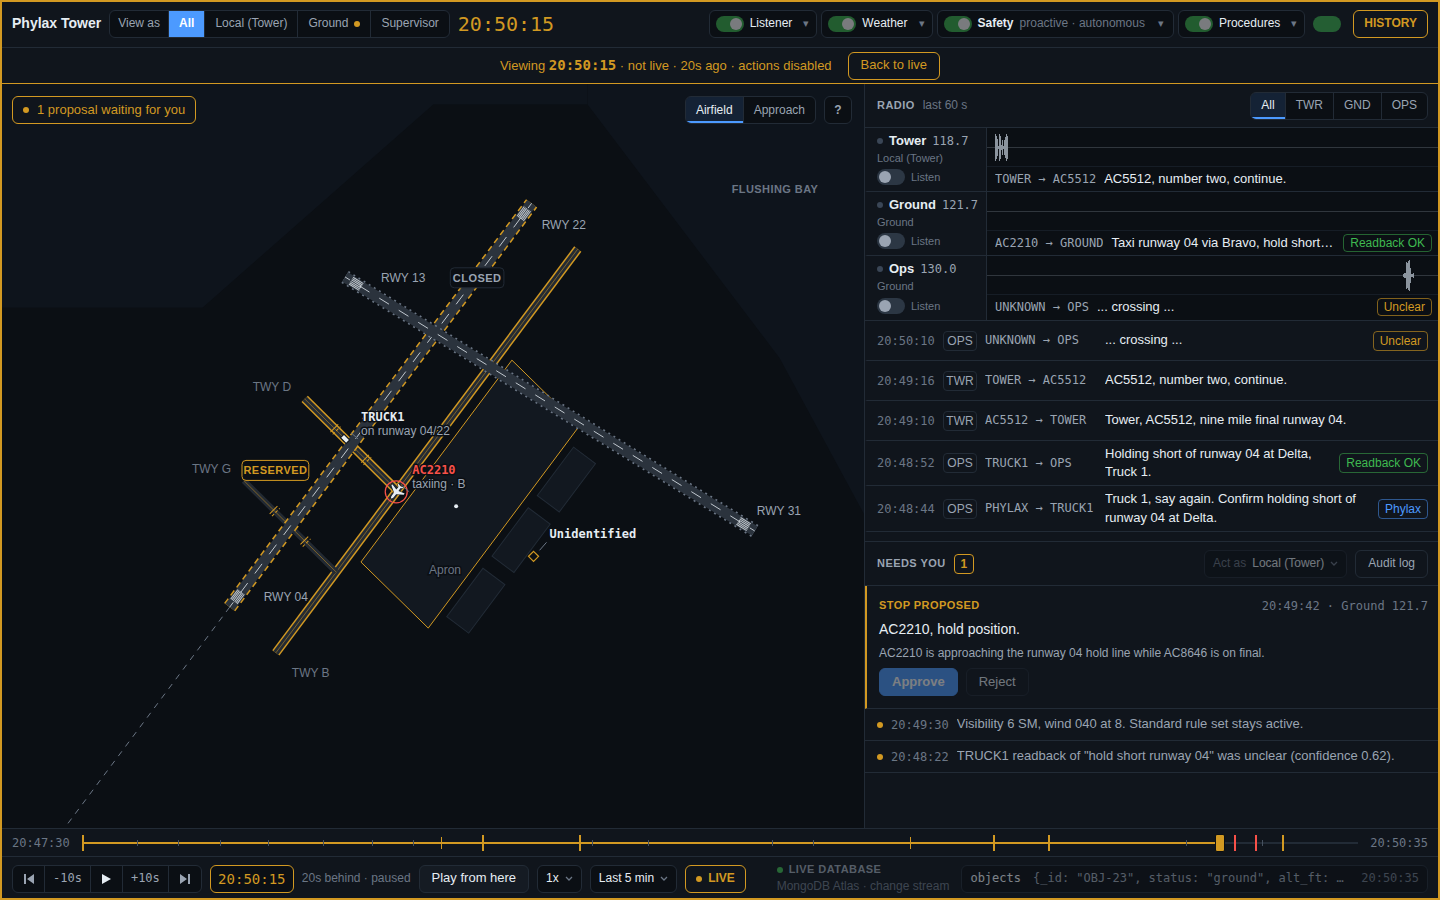
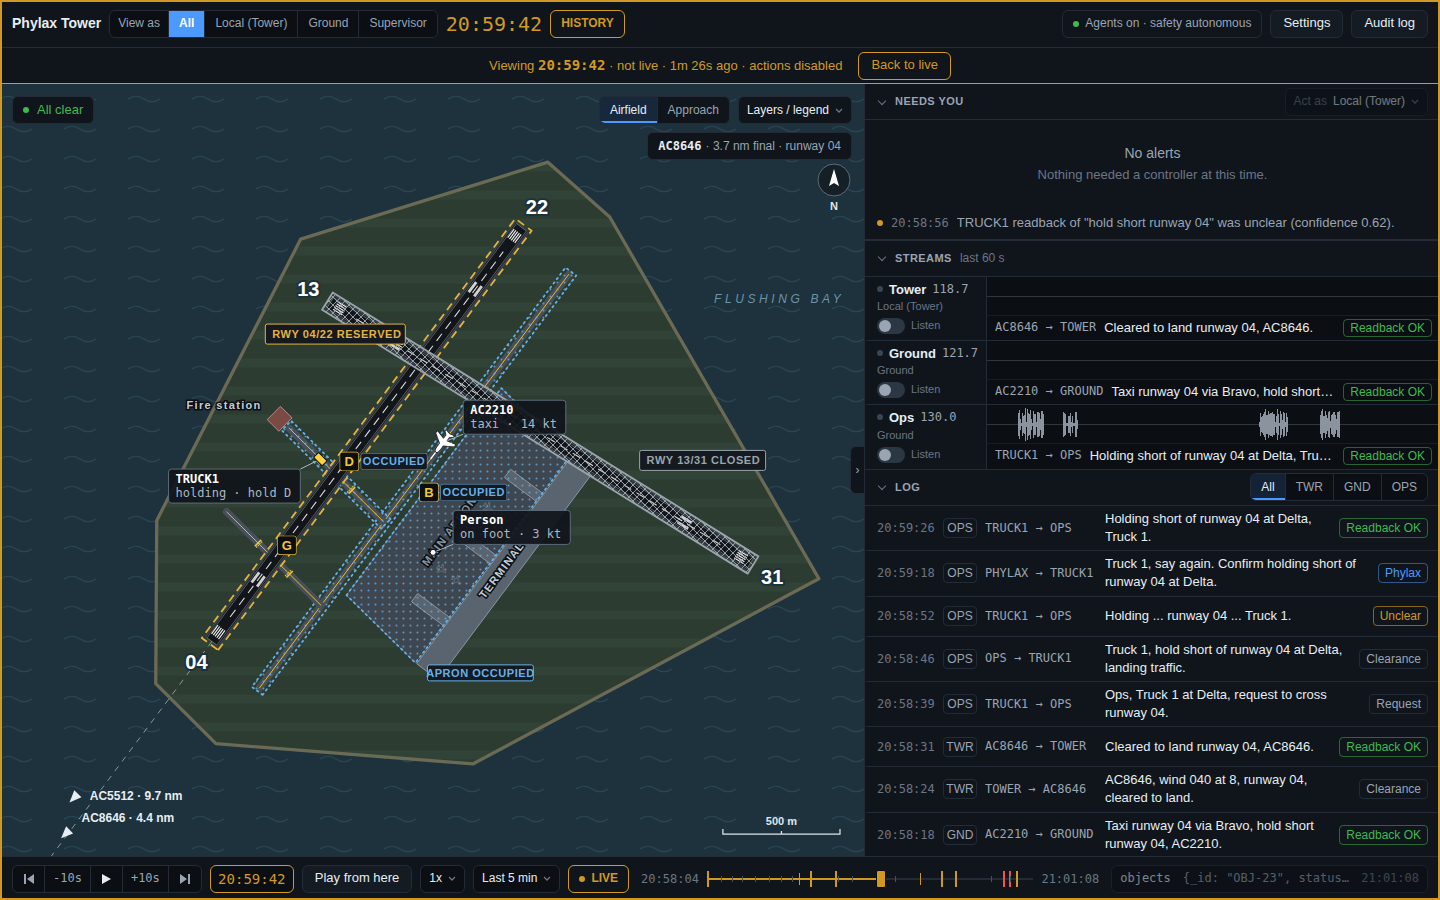
Visualizer map: keep edge markers and the fire station label clear, updated screenshots

diff --git a/visualizer/web/src/components/MapView.tsx b/visualizer/web/src/components/MapView.tsx
@@ -472,7 +472,7 @@ export function MapView({ world, objects, laneStatus, ownedLanes, flagged, smoot
             }
             if (geom.fire) {
               const f = mpx(add(geom.fire.p, geom.fire.u, 60));
-              placed.push([f[0] - 82, f[1] - 14, f[0] - 4, f[1] + 4]);
+              placed.push([f[0] - 104, f[1] - 18, f[0] + 4, f[1] + 10]);
               out.push(
                 <text key="fire" x={f[0] - 8} y={f[1]} textAnchor="end" className="slab-label quiet-label">
                   Fire station
@@ -533,8 +533,12 @@ export function MapView({ world, objects, laneStatus, ownedLanes, flagged, smoot
             const dy = p[1] - size.h / 2;
             const k = Math.min((size.w / 2 - 24) / Math.abs(dx || 1e-6), (size.h / 2 - 24) / Math.abs(dy || 1e-6));
             const ex = size.w / 2 + dx * k;
-            const ey = Math.max(136, size.h / 2 + dy * k);
+            let ey = Math.max(136, size.h / 2 + dy * k);
             const right = ex > size.w / 2;
+            const ew = name.length * 7.3 + 70;
+            const er = (): Rect => [right ? ex - ew : ex - 6, ey - 12, right ? ex + 10 : ex + ew, ey + 8];
+            for (let i = 0; i < 6 && hit(er(), placed); i++) ey -= 18; // keep edge markers apart
+            placed.push(er());
             const nm = distM(o.position.coordinates, world.tower.center.coordinates) / NM;
             return (
               <g key={o._id} data-id={o._id} className={`obj-edge ${alert ? 'hot' : ''}`} transform={`translate(${ex},${ey})`}>
